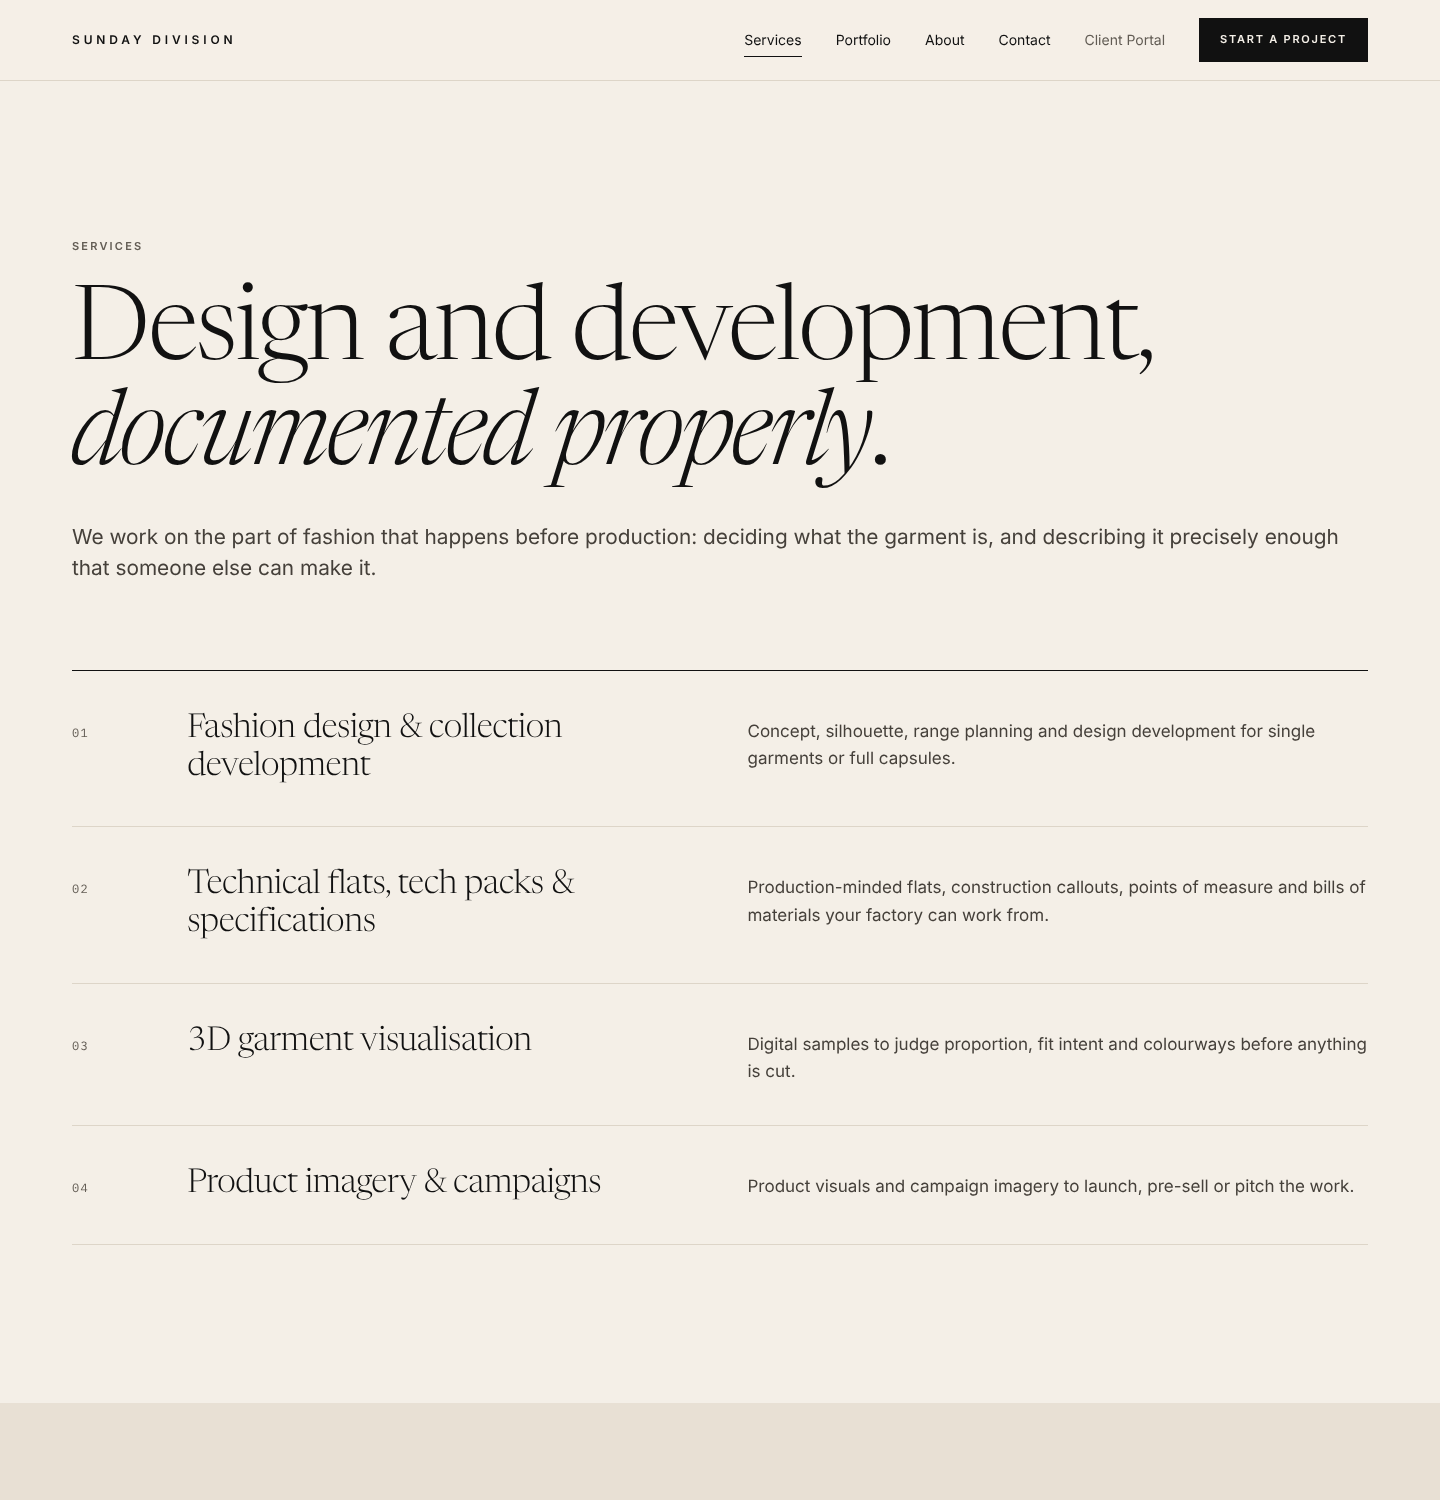
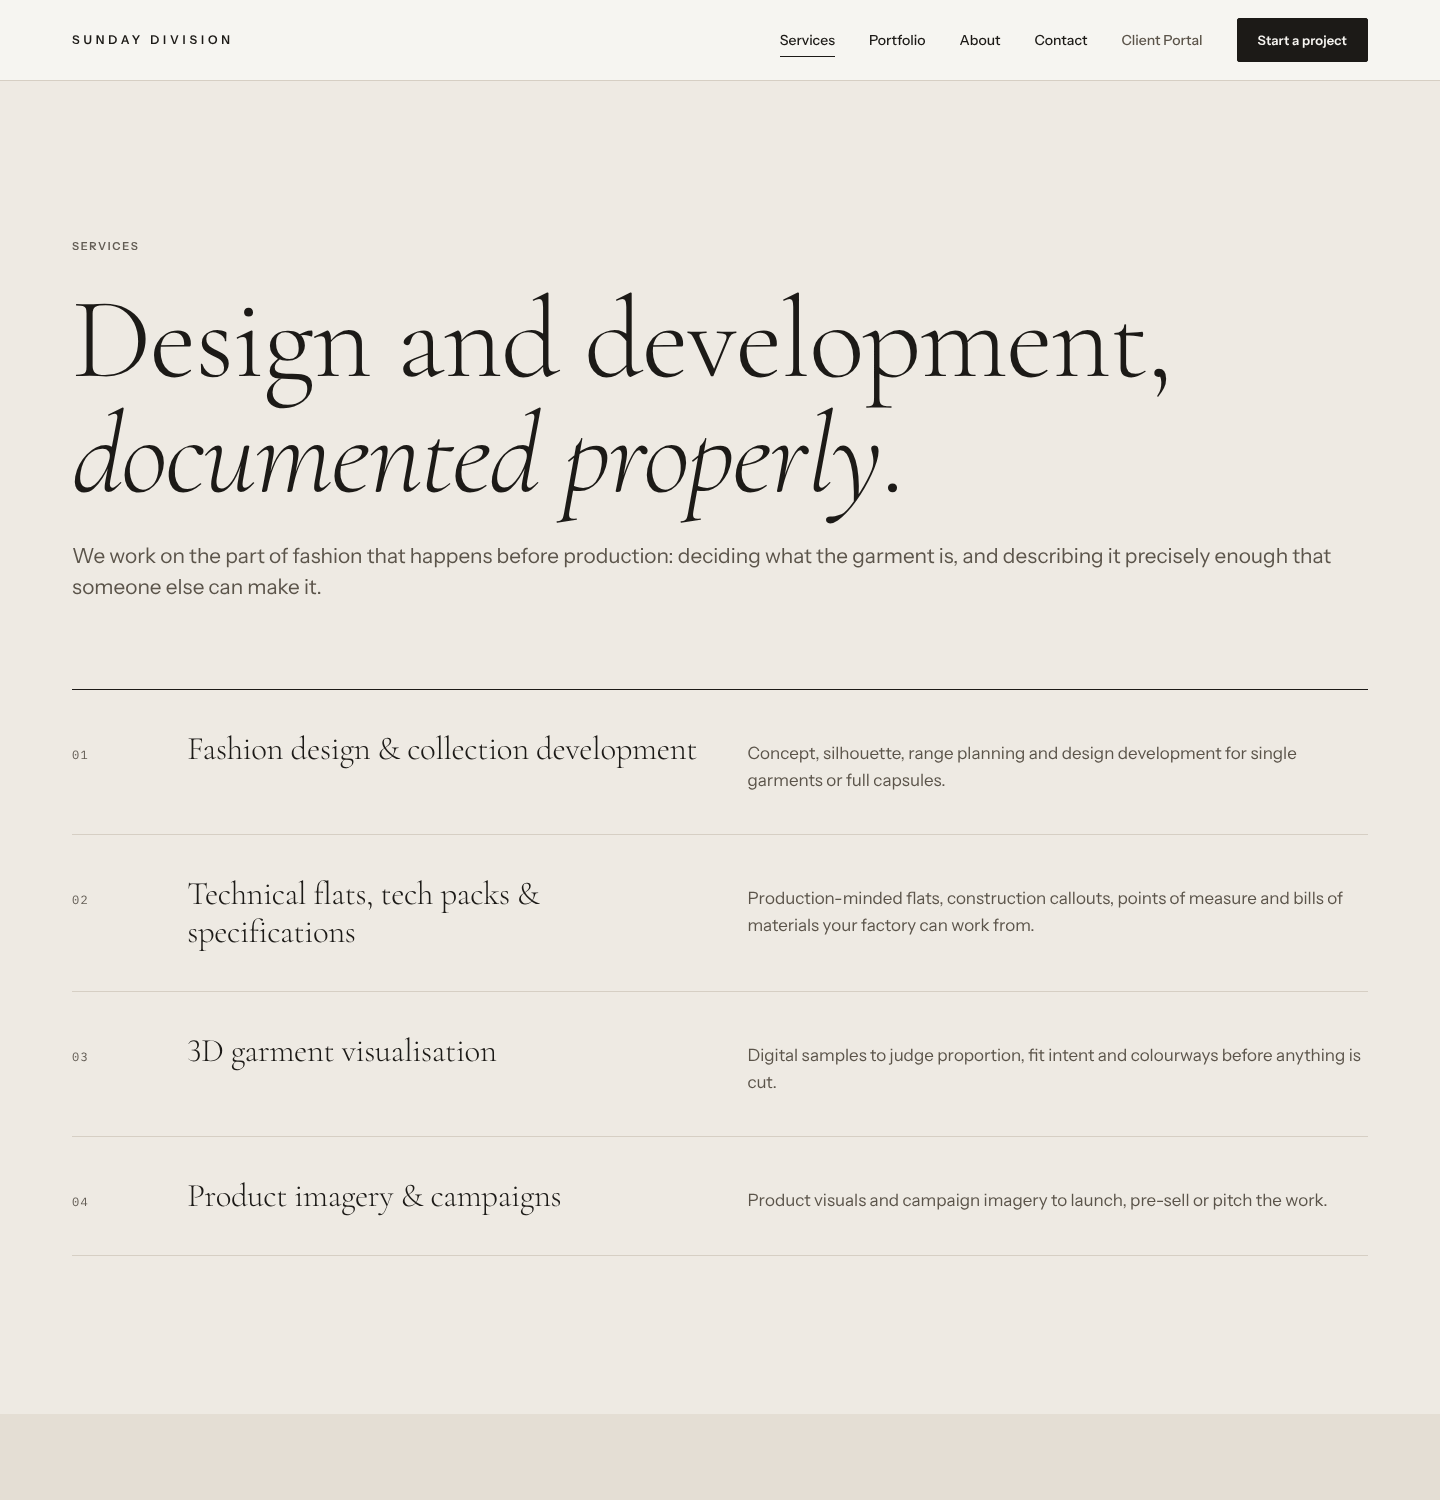
Screenshots and readiness notes for the Atelier brand and the inbox
Regenerated the documentation screenshots on the new brand (site, portal,
studio, Command) and added the studio inbox. Recorded this round's checks:
120/120 tests, axe clean on 26 views once entrance fades settle, CI green.

Claude-Session: https://claude.ai/code/session_01AzHV2cLPxiF67GD2w5oGsG

diff --git a/sunday-division/docs/PRODUCTION-READINESS.md b/sunday-division/docs/PRODUCTION-READINESS.md
@@ -119,6 +119,18 @@ Scope: authentication, authorization, private file access, payment gates and app
 
 ## 3. Latest verification run
 
+**14 Nov 2026 — Atelier brand and studio inbox (commit after `0e65e92`).**
+
+| Check | Result |
+|---|---|
+| `npm test` (local and CI) | 120 / 120 pass, 0 skipped; the studio surfaces test now also covers the inbox (listing, J/K and Enter, filters, an action that returns to the inbox, phone list-then-item) |
+| axe-core WCAG 2.2 A/AA + best practice | 26 page views (site, portal, inbox, Command; phone and desktop): 0 violations once entrance fades finish, 0 with reduced motion. Three contrast hits measured mid-fade are animation artefacts, not colours. |
+| Text contrast (Atelier light theme) | every pairing ≥ 4.9:1 (computed) |
+| Command | layouts unchanged; it now uses the brand faces (Cormorant Garamond, Instrument Sans) through the tokens, so it is no longer pixel-identical to the previous release by design |
+| CI (GitHub Actions) | green |
+
+**Earlier run (design-system extension):**
+
 | Check | Result |
 |---|---|
 | `npm test` (local and CI) | 120 / 120 pass, 0 skipped |
